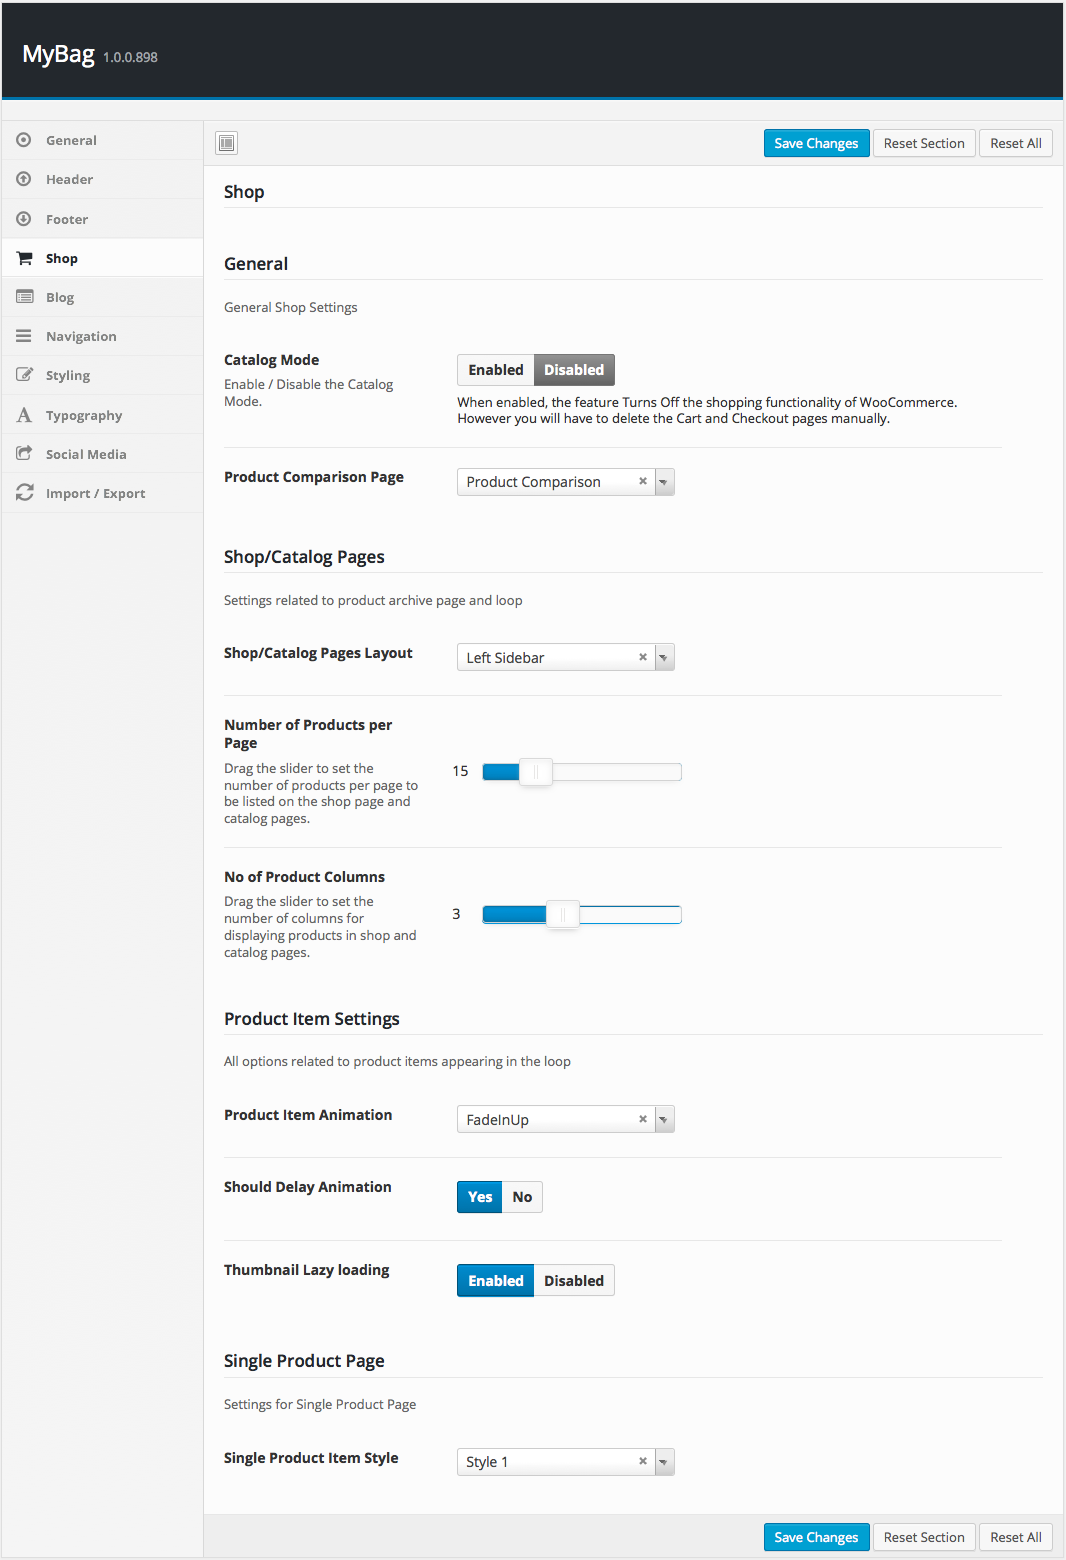
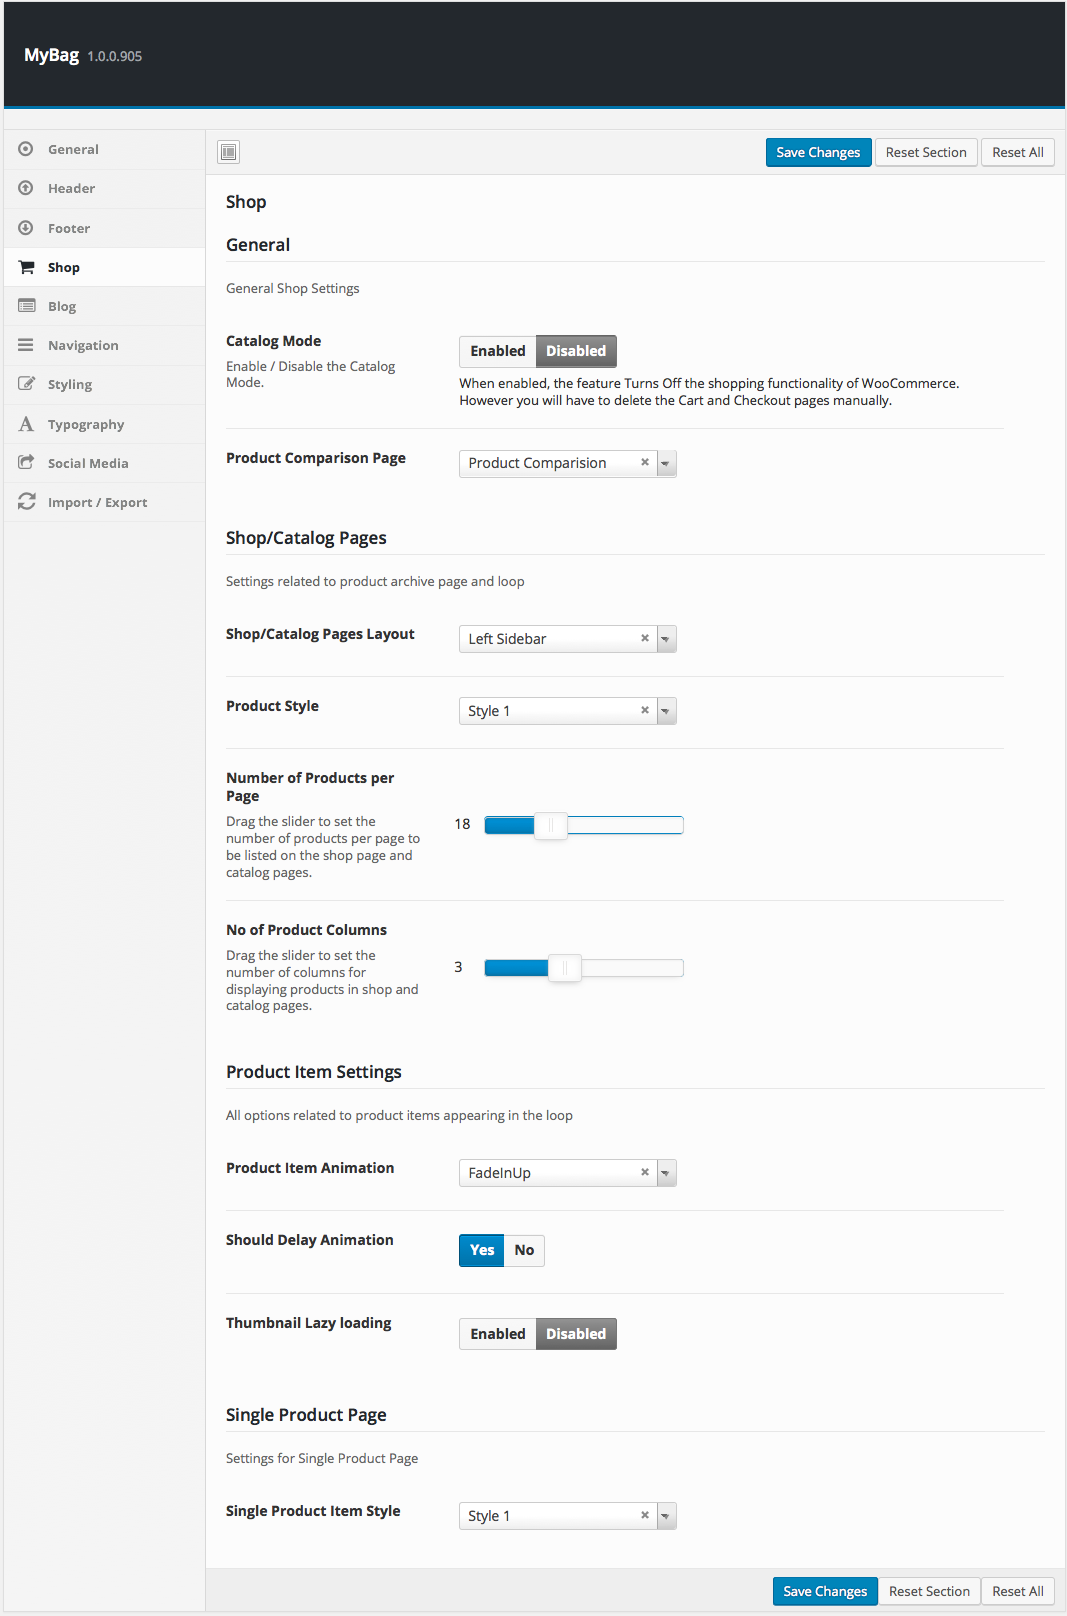
new files added

diff --git a/gitbook/mybag/setup/product_archiveshop_page.md b/gitbook/mybag/setup/product_archiveshop_page.md
@@ -11,6 +11,22 @@ In **MyBag** theme, the Shop Page can be displayed in 3 available layouts which 
 
 You can select the layout of the shop from **MyBag > Shop Tab > Shop/Catalog Pages > Shop/Catalog Pages Layout**.
 
+## Product Style
+
+**MyBag** is bundle with two different product styles.
+1. **Style 1** : Here is the screenshot for Product Style 1.
+
+![](http://transvelo.github.io/docs/mybag/images/product-style-1.png)
+
+2. **Style 2** : Here is the screenshot for Product Style 2.
+
+
+![](http://transvelo.github.io/docs/mybag/images/product-style-2.png)
+
+
+
+**Note**: **Style 2 **is suitable only for Full Width in three column layout.
+
 ## Content Section
 
 The Content Section of the Shop Page displays either Products or Categories or both depending on the choice given in **Shop Page Display** option under **WooCommerce > Settings > Products**.

diff --git a/gitbook/mybag/setup/about_us.md b/gitbook/mybag/setup/about_us.md
@@ -246,10 +246,10 @@ About Us Page of MyBag is built using **Visual Composer**.It has 10 rows. The **
 
 Here is the screenshot for Icon Settings
 
-![](http://transvelo.github.io/mybag/docs/images/icon-setting.png)
+![](http://transvelo.github.io/docs/mybag/images/icon-setting.png)
 
 
 **Note**: In Row 2,Row 4, Row 6, Row 8 setting enable Stretch row and content (no paddings). Here i pasted the screenshot for your reference.
 
-![](http://transvelo.github.io/mybag/docs/images/full-width-row-setting.png)
+![](http://transvelo.github.io/docs/mybag/images/full-width-row-setting.png)
 

diff --git a/gitbook/mybag/setup/configuring_footer_style_2.md b/gitbook/mybag/setup/configuring_footer_style_2.md
@@ -55,6 +55,7 @@ By default the footer widgets is populated with 5 widgets and they are :
 <p class="opening-hours"><span class="key">Monday-Sunday</span><span class="value">10:00 - 19:00</span></p>
 <p class="opening-hours"><span class="key">Sunday &amp; Holidays</span><span class="value">12:00 - 17:00</span></p>
 ```
+Here is the screenshot for Footer Top Widget setting
 
 ![](http://transvelo.github.io/docs/mybag/images/footer-2-widget-setting.png)
 

diff --git a/gitbook/mybag/setup/wishlist.md b/gitbook/mybag/setup/wishlist.md
@@ -9,4 +9,4 @@ Wishlist page is created automatically on activating the **YITH WooCommerce Wish
 5. Click on **Publish**.
 6. Navigate to **WooCommerce > Settings > Wishlist ** and make sure the page created in the above step is selected against the **Wishlist Page** option.
 
-![](http://transvelo.github.io/mybag/docs/images/page-wishlist.png)
+![](http://transvelo.github.io/docs/mybag/images/page-wishlist.png)

diff --git a/gitbook/mybag/setup/configuring_footer_style_4.md b/gitbook/mybag/setup/configuring_footer_style_4.md
@@ -27,6 +27,8 @@ By default the footer widgets is populated with 5 widgets and they are :
 4. **Custom Menu** Widget - configured to display **About Us Menu**.
 5. **Custom Menu** Widget - configured to display **Support Menu**.
 
+Here is the screenshot for Footer Top Widget setting
+
 ![](http://transvelo.github.io/docs/mybag/images/footer4-top-widget-setting.png)
 
 ## Footer Widgets

diff --git a/gitbook/mybag/setup/my_account.md b/gitbook/mybag/setup/my_account.md
@@ -8,4 +8,4 @@ My Account page is created automatically on activating the **Woocommerce** plugi
 4. Check on **Hide Title** under **MyBag Page Attributes** Meta box.
 5. Click on **Publish**.
 
-![](http://transvelo.github.io/unicase/docs/images/page-myaccount.png)
+![](http://transvelo.github.io/docs/mybag/images/page-myaccount.png)

diff --git a/gitbook/mybag/setup/checkout.md b/gitbook/mybag/setup/checkout.md
@@ -8,4 +8,4 @@ Checkout page is created automatically on activating the **Woocommerce** plugin.
 4. Check on **Hide Title** under **MyBag Page Attributes** Meta box.
 5. Click on **Publish**.
 
-![](http://transvelo.github.io/unicase/docs/images/page-checkout.png)
+![](http://transvelo.github.io/docs/mybag/images/page-checkout.png)

diff --git a/gitbook/mybag/setup/cart.md b/gitbook/mybag/setup/cart.md
@@ -8,4 +8,4 @@ Cart page is created automatically on activating the **Woocommerce** plugin. If 
 4. Check on **Hide Title** under **MyBag Page Attributes** Meta box.
 5. Click on **Publish**.
 
-![](http://transvelo.github.io/unicase/docs/images/page-cart.png)
+![](http://transvelo.github.io/docs/mybag/images/page-cart.png)

diff --git a/gitbook/mybag/setup/home_v1.md b/gitbook/mybag/setup/home_v1.md
@@ -43,7 +43,7 @@ at ligula.</p>
 * It has one element
 * **MyBag Blog Settings** : Here i pasted a MyBag Blog Settings Page image.
 
-![](http://transvelo.github.io/docs/mybag/images/vc-mybag- blog-settings.png)
+![](http://transvelo.github.io/docs/mybag/images/vc-mybag-blog-setting.png)
 
 ### Row 4
 ---

diff --git a/gitbook/mybag/setup/configuring_footer_style_5.md b/gitbook/mybag/setup/configuring_footer_style_5.md
@@ -30,6 +30,7 @@ The **Footer Top Widgets** is the top most row in the footer. It is a widgetized
     </div>
 </div>
 ```
+Here is the screenshot for Footer Top Widget setting
 
 ![](http://transvelo.github.io/docs/mybag/images/footer-5-widget-setting.png)
 

diff --git a/gitbook/mybag/setup/history.md b/gitbook/mybag/setup/history.md
@@ -145,4 +145,4 @@ It has three columns in the ratio 1/3 + 1/3 + 1/3
 
 Here is the screenshot for Icon Settings
 
-![](http://transvelo.github.io/mybag/docs/images/icon-setting.png)
+![](http://transvelo.github.io/docs/mybag/images/icon-setting.png)

diff --git a/gitbook/mybag/theme_options_panel/shop.md b/gitbook/mybag/theme_options_panel/shop.md
@@ -11,6 +11,7 @@
 #### Shop/Catalog Pages
 
 * Set a Shop/Catalog Pages Layout.
+* Select Product Style.
 * Set the Number of Product Columns for displaying products in shop page.
 * Set the number of products to be displayed per page.
 
